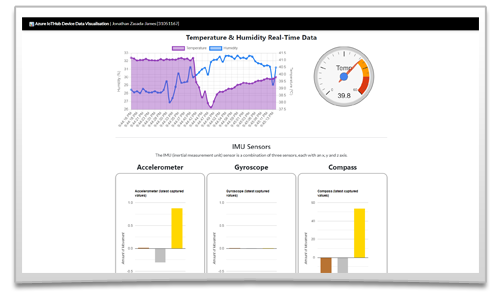
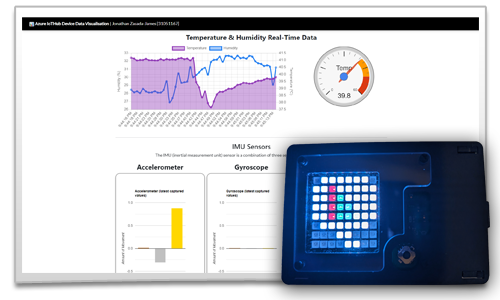
Updates

Changed region(s): [[0.54, 0.42, 1.0, 1.0]]

diff --git a/index.html b/index.html
@@ -143,7 +143,7 @@
 								<div class="content">
 									<div class="inner">
 										<h2>Milk Monitor</h2>
-										<p>IoT Devices, Cloud Services and Mobile Application developed in my final year as a BSc Computing (with Smart Technologies) student at Sheffield Hallam University </p>
+										<p>IoT Devices, Cloud Services and Mobile Application solution, developed in my final year as a BSc Computing (with Smart Technologies) student at Sheffield Hallam University </p>
 										<ul class="actions">
 											<li><a href="#two" class="button">More Soon!</a></li>
 										</ul>
@@ -215,7 +215,7 @@
 													<img src="images/demo-pi-azure-visualisation-temperature.gif" alt="" /><br>
 												</li>
 												<li>
-													The IMU (Innertial Measurement Unit) data from the SenseHAT is also sent to the Azure IoT Hub, visualised in a similar way and rendered in 3D using <a href="https://threejs.org/" target="_blank">Three.js</a><br>
+													The IMU (Innertial Measurement Unit) data from the SenseHAT sent to the Azure IoT Hub is visualised in a similar way and rendered in 3D using <a href="https://threejs.org/" target="_blank">Three.js</a><br>
 													<img src="images/demo-pi-azure-visualisation-imu.gif" alt="" />
 												</li>
 											</ul>

diff --git a/assets/css/main.css b/assets/css/main.css
@@ -3972,3 +3972,13 @@ ul.actions.align-center li a {
 .details-panel {
     margin-top: 1em;
 }
+
+
+
+#footer a {
+    color: #FFFFFF40;
+}
+
+	#footer a:hover {
+		color: #FFFFFF90;
+	}
